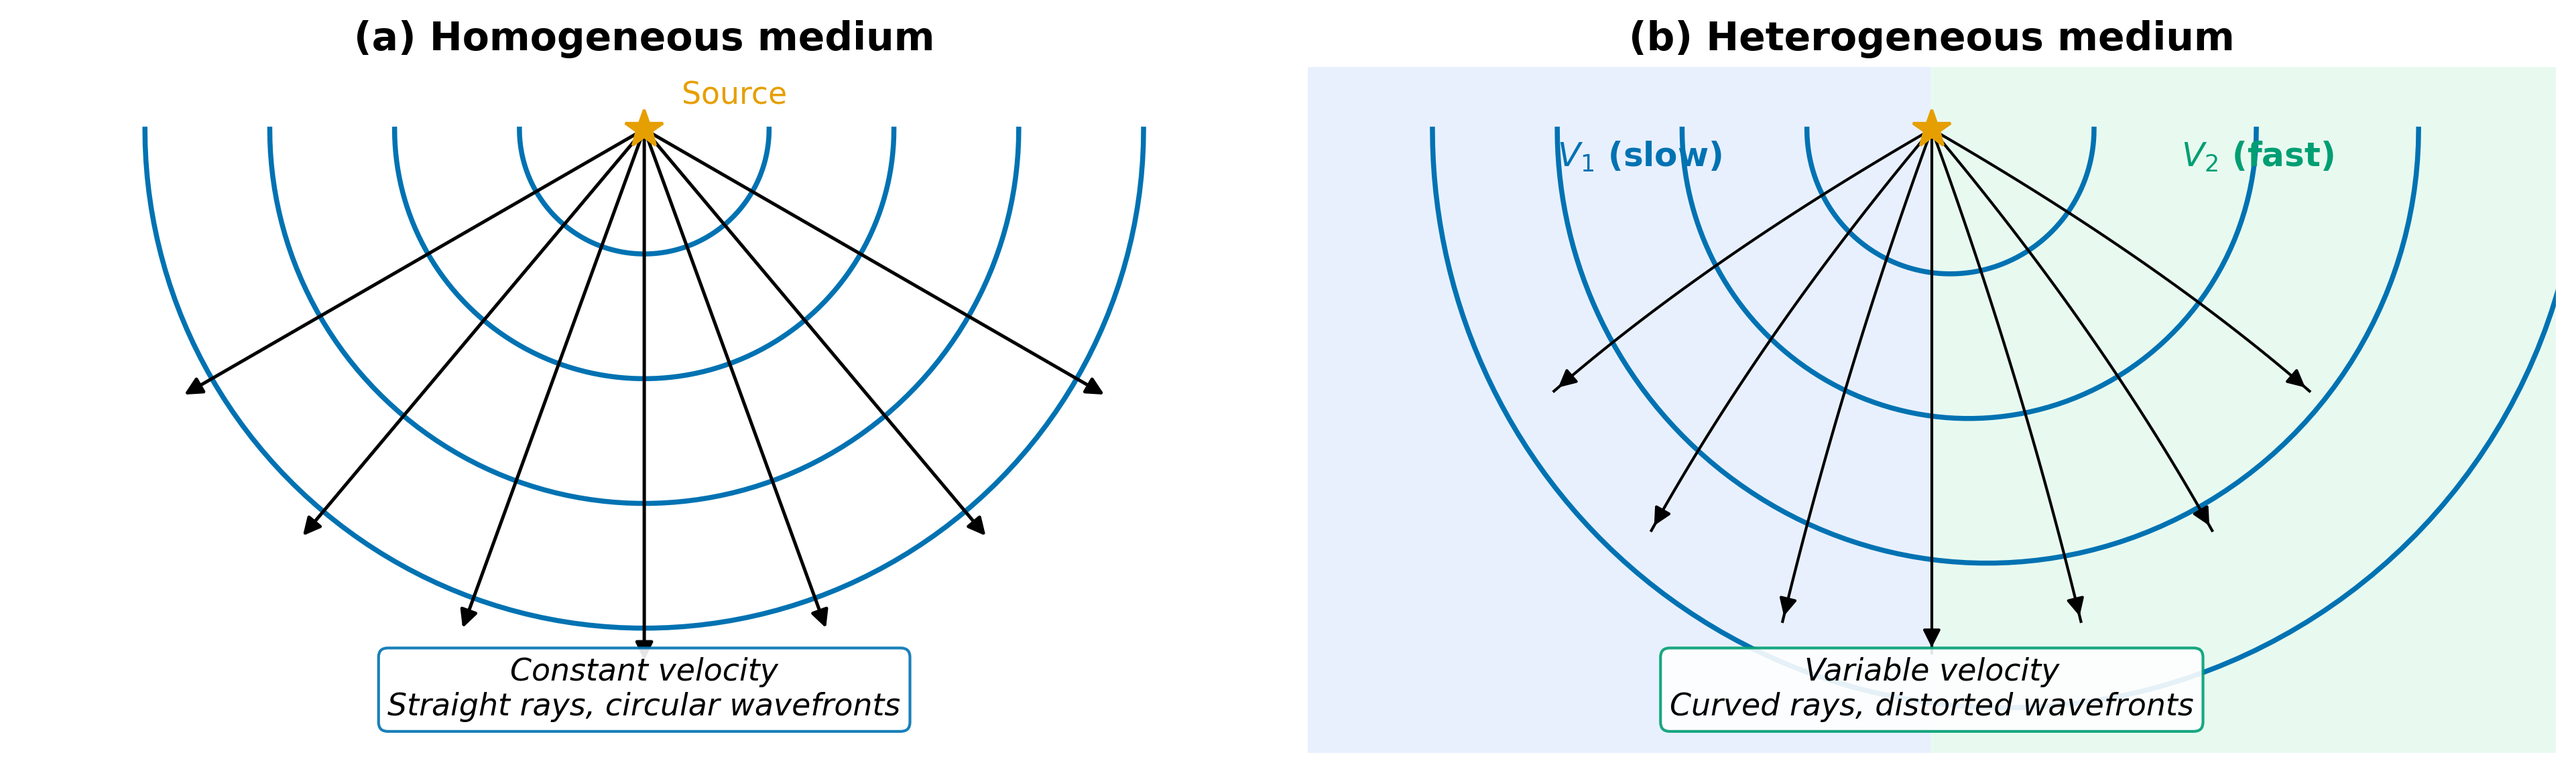
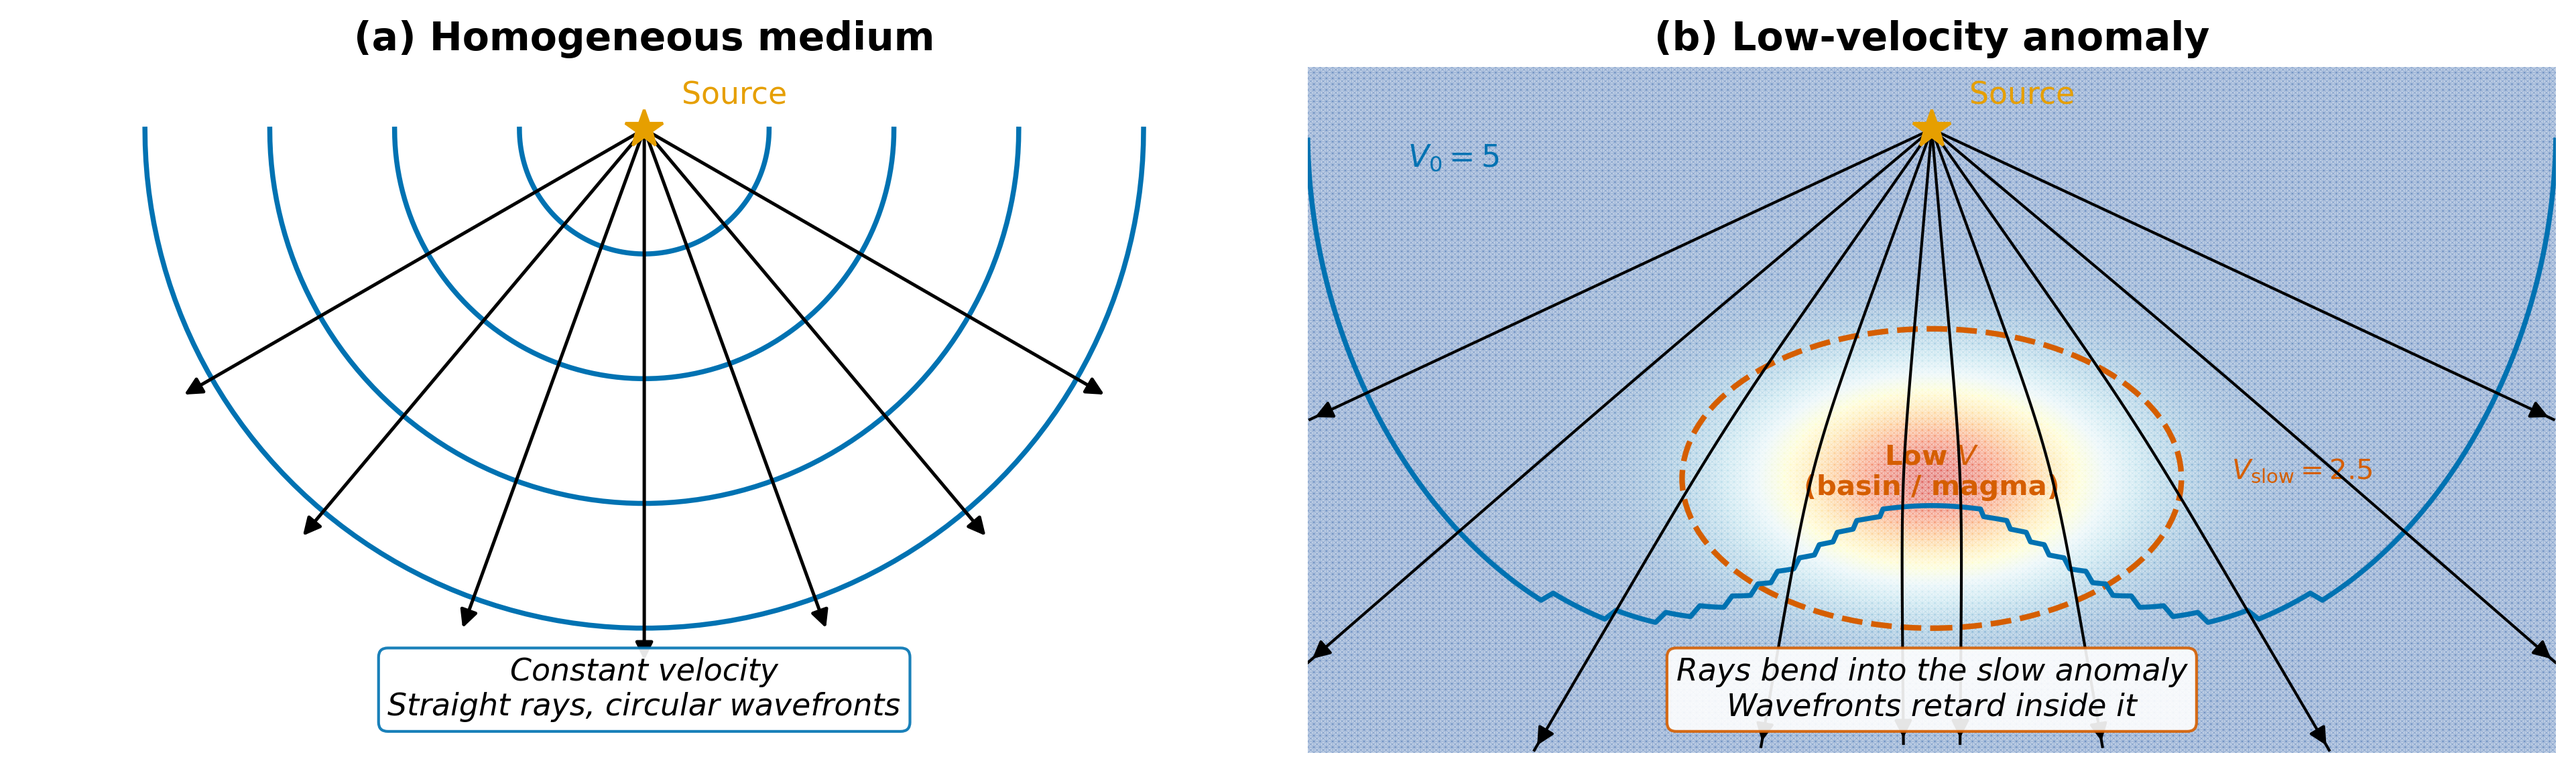
lec05 fig 5.1(b): replace left/right velocity split with low-velocity basin/magma anomaly
- Rays now traced via kinematic ray equations through a Gaussian low-V anomaly
- Wavefronts computed at equal travel times, retarding inside the slow zone
- Elliptical anomaly outlined with dashed red ellipse, velocity colourmap overlay
- Updated alt text in notes to match new figure content

diff --git a/assets/scripts/fig_wavefronts_isotropic_hetero.py b/assets/scripts/fig_wavefronts_isotropic_hetero.py
@@ -2,12 +2,9 @@
 fig_wavefronts_isotropic_hetero.py
 
 Scientific content: Comparison of wavefronts and rays in (a) a homogeneous
-isotropic medium (circular wavefronts, straight rays) and (b) a laterally
-heterogeneous medium (distorted wavefronts, curved rays bending toward the
-slow region).
-
-Replaces: Legacy slide 17 from 314_2023_4_seismic_waves.pdf and slide 5
-from 314_2023_5_seismic_waves_II.pdf (likely textbook figure).
+isotropic medium (circular wavefronts, straight rays) and (b) a medium
+containing a low-velocity anomaly (sedimentary basin / magma chamber).
+Rays bend *into* the slow region; wavefronts retard inside it.
 
 Output: assets/figures/fig_wavefronts_isotropic_hetero.png
 License: CC-BY 4.0 (this script)
@@ -15,7 +12,7 @@ License: CC-BY 4.0 (this script)
 import numpy as np
 import matplotlib.pyplot as plt
 import matplotlib as mpl
-from matplotlib.patches import FancyArrowPatch
+from matplotlib.patches import Ellipse
 
 mpl.rcParams.update({
     "font.size": 13, "axes.titlesize": 15, "axes.labelsize": 13,
@@ -24,7 +21,90 @@ mpl.rcParams.update({
 })
 
 BLUE = "#0072B2"; SKY = "#56B4E9"; GREEN = "#009E73"
-ORANGE = "#E69F00"; BLACK = "#000000"
+ORANGE = "#E69F00"; RED = "#D55E00"; BLACK = "#000000"
+
+# ── Velocity model for panel (b) ──────────────────────────────────────────
+# Low-velocity elliptical anomaly (basin / magma chamber)
+ANOM_CX, ANOM_CY = 0.0, -2.8   # centre of the anomaly
+ANOM_RX, ANOM_RY = 2.0, 1.2    # semi-axes (horizontal, vertical)
+V_BG = 5.0                      # background velocity (arbitrary units)
+V_SLOW = 2.5                    # anomaly velocity
+
+
+def velocity(x, y):
+    """Return velocity at (x, y). Smooth Gaussian low-velocity anomaly."""
+    r2 = ((x - ANOM_CX) / ANOM_RX) ** 2 + ((y - ANOM_CY) / ANOM_RY) ** 2
+    # Smooth Gaussian transition instead of hard boundary
+    dv = (V_BG - V_SLOW) * np.exp(-2.0 * r2)
+    return V_BG - dv
+
+
+def grad_velocity(x, y):
+    """Return (dV/dx, dV/dy) analytically."""
+    r2 = ((x - ANOM_CX) / ANOM_RX) ** 2 + ((y - ANOM_CY) / ANOM_RY) ** 2
+    common = (V_BG - V_SLOW) * np.exp(-2.0 * r2) * 4.0
+    dvdx = common * (x - ANOM_CX) / ANOM_RX ** 2
+    dvdy = common * (y - ANOM_CY) / ANOM_RY ** 2
+    return dvdx, dvdy
+
+
+def trace_ray(x0, y0, vx0, vy0, ds=0.02, nsteps=600):
+    """Trace a ray through the velocity field using the ray-tracing ODE.
+
+    The kinematic ray equations in 2-D:
+        dx/ds = V * px,   dy/ds = V * py
+        dpx/ds = -dV/dx / V,   dpy/ds = -dV/dy / V
+    where (px, py) is the unit slowness direction.
+    """
+    # Normalise initial direction
+    norm = np.hypot(vx0, vy0)
+    px, py = vx0 / norm, vy0 / norm
+    xs, ys = [x0], [y0]
+    x, y = x0, y0
+    for _ in range(nsteps):
+        v = velocity(x, y)
+        dvdx, dvdy = grad_velocity(x, y)
+        # Advance position
+        x += v * px * ds
+        y += v * py * ds
+        # Advance slowness direction
+        px -= (dvdx / v) * ds
+        py -= (dvdy / v) * ds
+        # Re-normalise
+        norm = np.hypot(px, py)
+        px /= norm; py /= norm
+        xs.append(x); ys.append(y)
+        if y > 0.5 or y < -5.5 or abs(x) > 5.5:
+            break
+    return np.array(xs), np.array(ys)
+
+
+def compute_wavefront(x0, y0, t_target, n_rays=360, ds=0.02):
+    """Shoot rays in all downward directions and collect positions at travel time t_target."""
+    wf_x, wf_y = [], []
+    for angle_deg in np.linspace(181, 359, n_rays):
+        angle = np.radians(angle_deg)
+        vx0, vy0 = np.cos(angle), np.sin(angle)
+        norm = np.hypot(vx0, vy0)
+        px, py = vx0 / norm, vy0 / norm
+        x, y = x0, y0
+        t_accum = 0.0
+        for _ in range(2000):
+            v = velocity(x, y)
+            dvdx, dvdy = grad_velocity(x, y)
+            x += v * px * ds
+            y += v * py * ds
+            px -= (dvdx / v) * ds
+            py -= (dvdy / v) * ds
+            norm_p = np.hypot(px, py)
+            px /= norm_p; py /= norm_p
+            t_accum += ds / v
+            if t_accum >= t_target:
+                wf_x.append(x); wf_y.append(y)
+                break
+            if y > 0.5 or y < -6 or abs(x) > 6:
+                break
+    return np.array(wf_x), np.array(wf_y)
 
 
 def main():
@@ -43,13 +123,13 @@ def main():
 
     # Circular wavefronts
     for r in [1.0, 2.0, 3.0, 4.0]:
-        theta = np.linspace(np.pi, 2*np.pi, 100)
-        ax.plot(r*np.cos(theta), r*np.sin(theta), color=BLUE, lw=1.8)
+        theta = np.linspace(np.pi, 2 * np.pi, 100)
+        ax.plot(r * np.cos(theta), r * np.sin(theta), color=BLUE, lw=1.8)
 
     # Straight rays
     for angle_deg in [-150, -130, -110, -90, -70, -50, -30]:
         angle = np.radians(angle_deg)
-        ax.annotate("", xy=(4.3*np.cos(angle), 4.3*np.sin(angle)),
+        ax.annotate("", xy=(4.3 * np.cos(angle), 4.3 * np.sin(angle)),
                      xytext=(0, 0),
                      arrowprops=dict(arrowstyle="-|>", color=BLACK, lw=1.2))
 
@@ -58,48 +138,72 @@ def main():
             bbox=dict(boxstyle="round,pad=0.3", fc="white", ec=BLUE, alpha=0.9))
     ax.axis("off")
 
-    # ── Panel B: Heterogeneous ──────────────────────────────────────
+    # ── Panel B: Low-velocity anomaly ───────────────────────────────
     ax = axes[1]
-    ax.set_title("(b) Heterogeneous medium", fontsize=14, fontweight="bold")
+    ax.set_title("(b) Low-velocity anomaly", fontsize=14, fontweight="bold")
     ax.set_xlim(-5, 5); ax.set_ylim(-5, 0.5)
     ax.set_aspect("equal")
 
-    # Background: slow left, fast right
-    ax.axvspan(-5, 0, color="#E8F0FE", zorder=0)    # slow = blue tint
-    ax.axvspan(0, 5, color="#E8FAF0", zorder=0)      # fast = green tint
-    ax.text(-3, -0.3, "$V_1$ (slow)", fontsize=12, color=BLUE, fontweight="bold")
-    ax.text(2, -0.3, "$V_2$ (fast)", fontsize=12, color=GREEN, fontweight="bold")
+    # Background velocity field as colour mesh
+    xg = np.linspace(-5, 5, 200)
+    yg = np.linspace(-5, 0.5, 120)
+    Xg, Yg = np.meshgrid(xg, yg)
+    Vg = velocity(Xg, Yg)
+    ax.pcolormesh(Xg, Yg, Vg, cmap="RdYlBu", vmin=V_SLOW - 0.3,
+                  vmax=V_BG + 0.3, shading="gouraud", zorder=0, alpha=0.35)
+
+    # Anomaly outline (dashed ellipse)
+    ell = Ellipse((ANOM_CX, ANOM_CY), 2 * ANOM_RX, 2 * ANOM_RY,
+                  fill=False, edgecolor=RED, ls="--", lw=2.0, zorder=2)
+    ax.add_patch(ell)
+    ax.text(ANOM_CX, ANOM_CY + 0.05, "Low $V$\n(basin / magma)",
+            ha="center", va="center", fontsize=10, color=RED,
+            fontweight="bold", zorder=3)
+
+    # Velocity labels
+    ax.text(-4.2, -0.3, f"$V_0 = {V_BG:.0f}$", fontsize=11,
+            color=BLUE, fontweight="bold")
+    ax.text(ANOM_CX + 2.4, ANOM_CY, f"$V_{{\\rm slow}} = {V_SLOW:.1f}$",
+            fontsize=10, color=RED, fontweight="bold")
 
     # Source
     ax.plot(0, 0, "*", color=ORANGE, markersize=14, zorder=5)
+    ax.text(0.3, 0.2, "Source", fontsize=11, color=ORANGE)
 
-    # Distorted wavefronts — fast side extends further
-    for t_idx, r_base in enumerate([1.0, 2.0, 3.0, 4.0]):
-        theta = np.linspace(np.pi, 2*np.pi, 100)
-        # Stretch radii on the right (fast) side
-        stretch = 1.0 + 0.3 * (np.cos(theta) + 1) / 2  # more stretch toward right
-        r = r_base * stretch
-        ax.plot(r*np.cos(theta), r*np.sin(theta), color=BLUE, lw=1.8)
-
-    # Curved rays — bend toward slow (left)
-    for angle_deg in [-150, -130, -110, -90, -70, -50, -30]:
+    # Trace and draw rays
+    ray_angles = [-155, -140, -125, -110, -95, -85, -70, -55, -40, -25]
+    for angle_deg in ray_angles:
         angle = np.radians(angle_deg)
-        t_arr = np.linspace(0, 4.2, 50)
-        # Simple curvature: bend toward left (slow side)
-        curve_strength = 0.04 * np.cos(angle)
-        x = t_arr * np.cos(angle) - curve_strength * t_arr**2
-        y = t_arr * np.sin(angle)
-        ax.plot(x, y, color=BLACK, lw=1.0)
-        ax.annotate("", xy=(x[-1], y[-1]), xytext=(x[-3], y[-3]),
-                     arrowprops=dict(arrowstyle="-|>", color=BLACK, lw=1.0))
+        rx, ry = trace_ray(0, 0, np.cos(angle), np.sin(angle))
+        # Clip to axes
+        mask = (ry <= 0.5) & (ry >= -5) & (np.abs(rx) <= 5)
+        rx, ry = rx[mask], ry[mask]
+        if len(rx) < 3:
+            continue
+        ax.plot(rx, ry, color=BLACK, lw=1.0, zorder=3)
+        ax.annotate("", xy=(rx[-1], ry[-1]), xytext=(rx[-3], ry[-3]),
+                     arrowprops=dict(arrowstyle="-|>", color=BLACK, lw=1.0),
+                     zorder=3)
 
-    ax.text(0, -4.7, "Variable velocity\nCurved rays, distorted wavefronts",
+    # Compute and draw wavefronts
+    for t_target in [0.2, 0.45, 0.75, 1.05]:
+        wfx, wfy = compute_wavefront(0, 0, t_target, n_rays=400)
+        if len(wfx) < 5:
+            continue
+        # Sort by angle for smooth curve
+        angles = np.arctan2(wfy, wfx)
+        order = np.argsort(angles)
+        ax.plot(wfx[order], wfy[order], color=BLUE, lw=1.8, zorder=2)
+
+    ax.text(0, -4.7,
+            "Rays bend into the slow anomaly\nWavefronts retard inside it",
             ha="center", fontsize=11, style="italic",
-            bbox=dict(boxstyle="round,pad=0.3", fc="white", ec=GREEN, alpha=0.9))
+            bbox=dict(boxstyle="round,pad=0.3", fc="white", ec=RED, alpha=0.9))
     ax.axis("off")
 
     plt.tight_layout()
-    plt.savefig("assets/figures/fig_wavefronts_isotropic_hetero.png", bbox_inches="tight")
+    plt.savefig("assets/figures/fig_wavefronts_isotropic_hetero.png",
+                bbox_inches="tight")
     plt.close()
     print("Saved: assets/figures/fig_wavefronts_isotropic_hetero.png")
 

diff --git a/lectures/05_wavefronts_rays.md b/lectures/05_wavefronts_rays.md
@@ -91,10 +91,10 @@ When the wave speed varies spatially — $V = V(\mathbf{x})$ — wavefronts defo
 
 :::{figure} ../assets/figures/fig_wavefronts_isotropic_hetero.png
 :name: fig-wavefronts-lec5
-:alt: Two-panel figure. Top panel shows a point source at the surface with semicircular wavefronts expanding downward in a uniform blue medium, with straight downward-pointing ray arrows perpendicular to each wavefront. Label reads velocity constant in all directions, straight ray paths and circular wavefronts. Bottom panel shows the same point source but in a medium where the left half is blue with slower velocity and the right half is green with faster velocity. The wavefronts are distorted, bulging further into the fast region, and the ray arrows curve toward the slow region. Label reads velocity varies laterally, curved ray paths and irregular wavefronts.
+:alt: Two-panel figure. Panel (a) shows a point source at the surface with semicircular wavefronts expanding downward in a uniform blue medium, with straight downward-pointing ray arrows perpendicular to each wavefront. Panel (b) shows the same source above a medium containing a low-velocity elliptical anomaly (sedimentary basin or magma chamber) outlined by a dashed red ellipse. The velocity field is shown as a colour mesh. Rays bend into the slow anomaly, and wavefronts retard (bulge inward) inside it.
 :width: 80%
 
-**Figure 5.1.** Wavefronts and rays in (a) a homogeneous isotropic medium: circular wavefronts, straight rays, and (b) a laterally heterogeneous medium: distorted wavefronts, curved rays. Rays always point perpendicular to wavefronts in isotropic media. [Python-generated. Script: `assets/scripts/fig_wavefronts_isotropic_hetero.py`]
+**Figure 5.1.** Wavefronts and rays in (a) a homogeneous isotropic medium: circular wavefronts, straight rays, and (b) a medium with a low-velocity anomaly (basin / magma chamber): rays bend into the slow region and wavefronts retard inside it. Rays always point perpendicular to wavefronts in isotropic media. [Python-generated. Script: `assets/scripts/fig_wavefronts_isotropic_hetero.py`]
 :::
 
 :::{admonition} Key Concept: Rays Bend Toward Slow Regions
